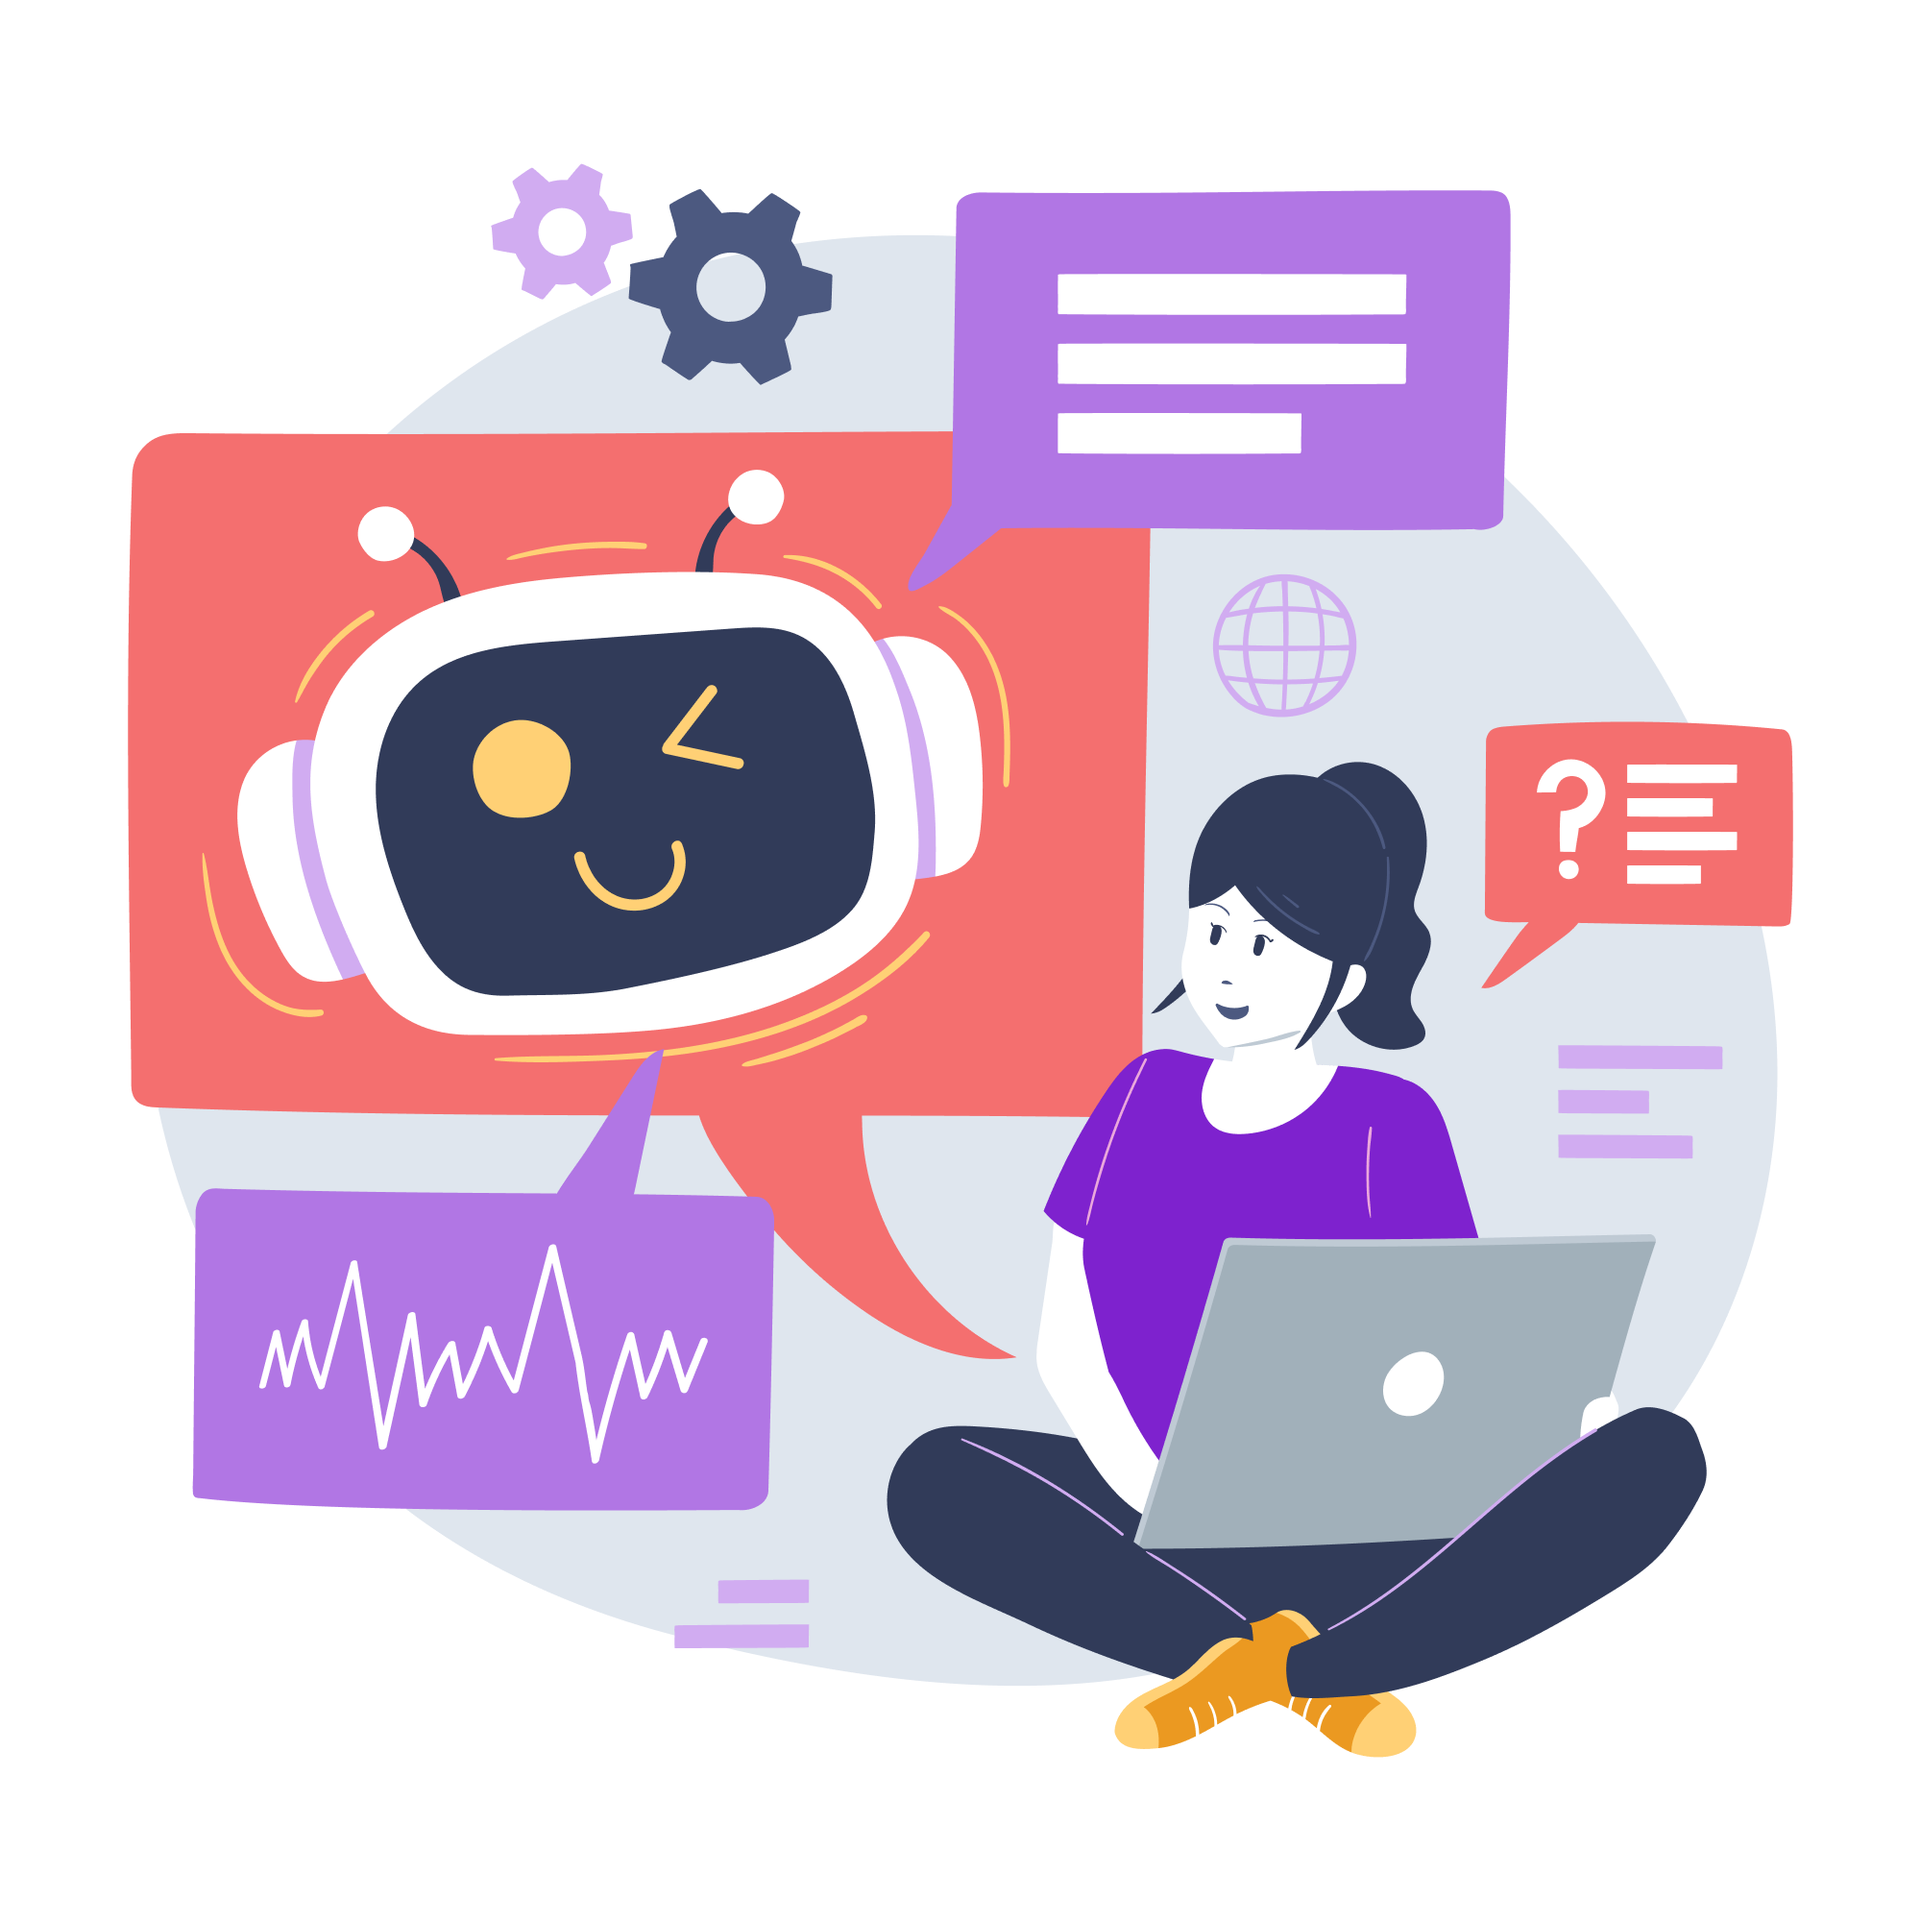
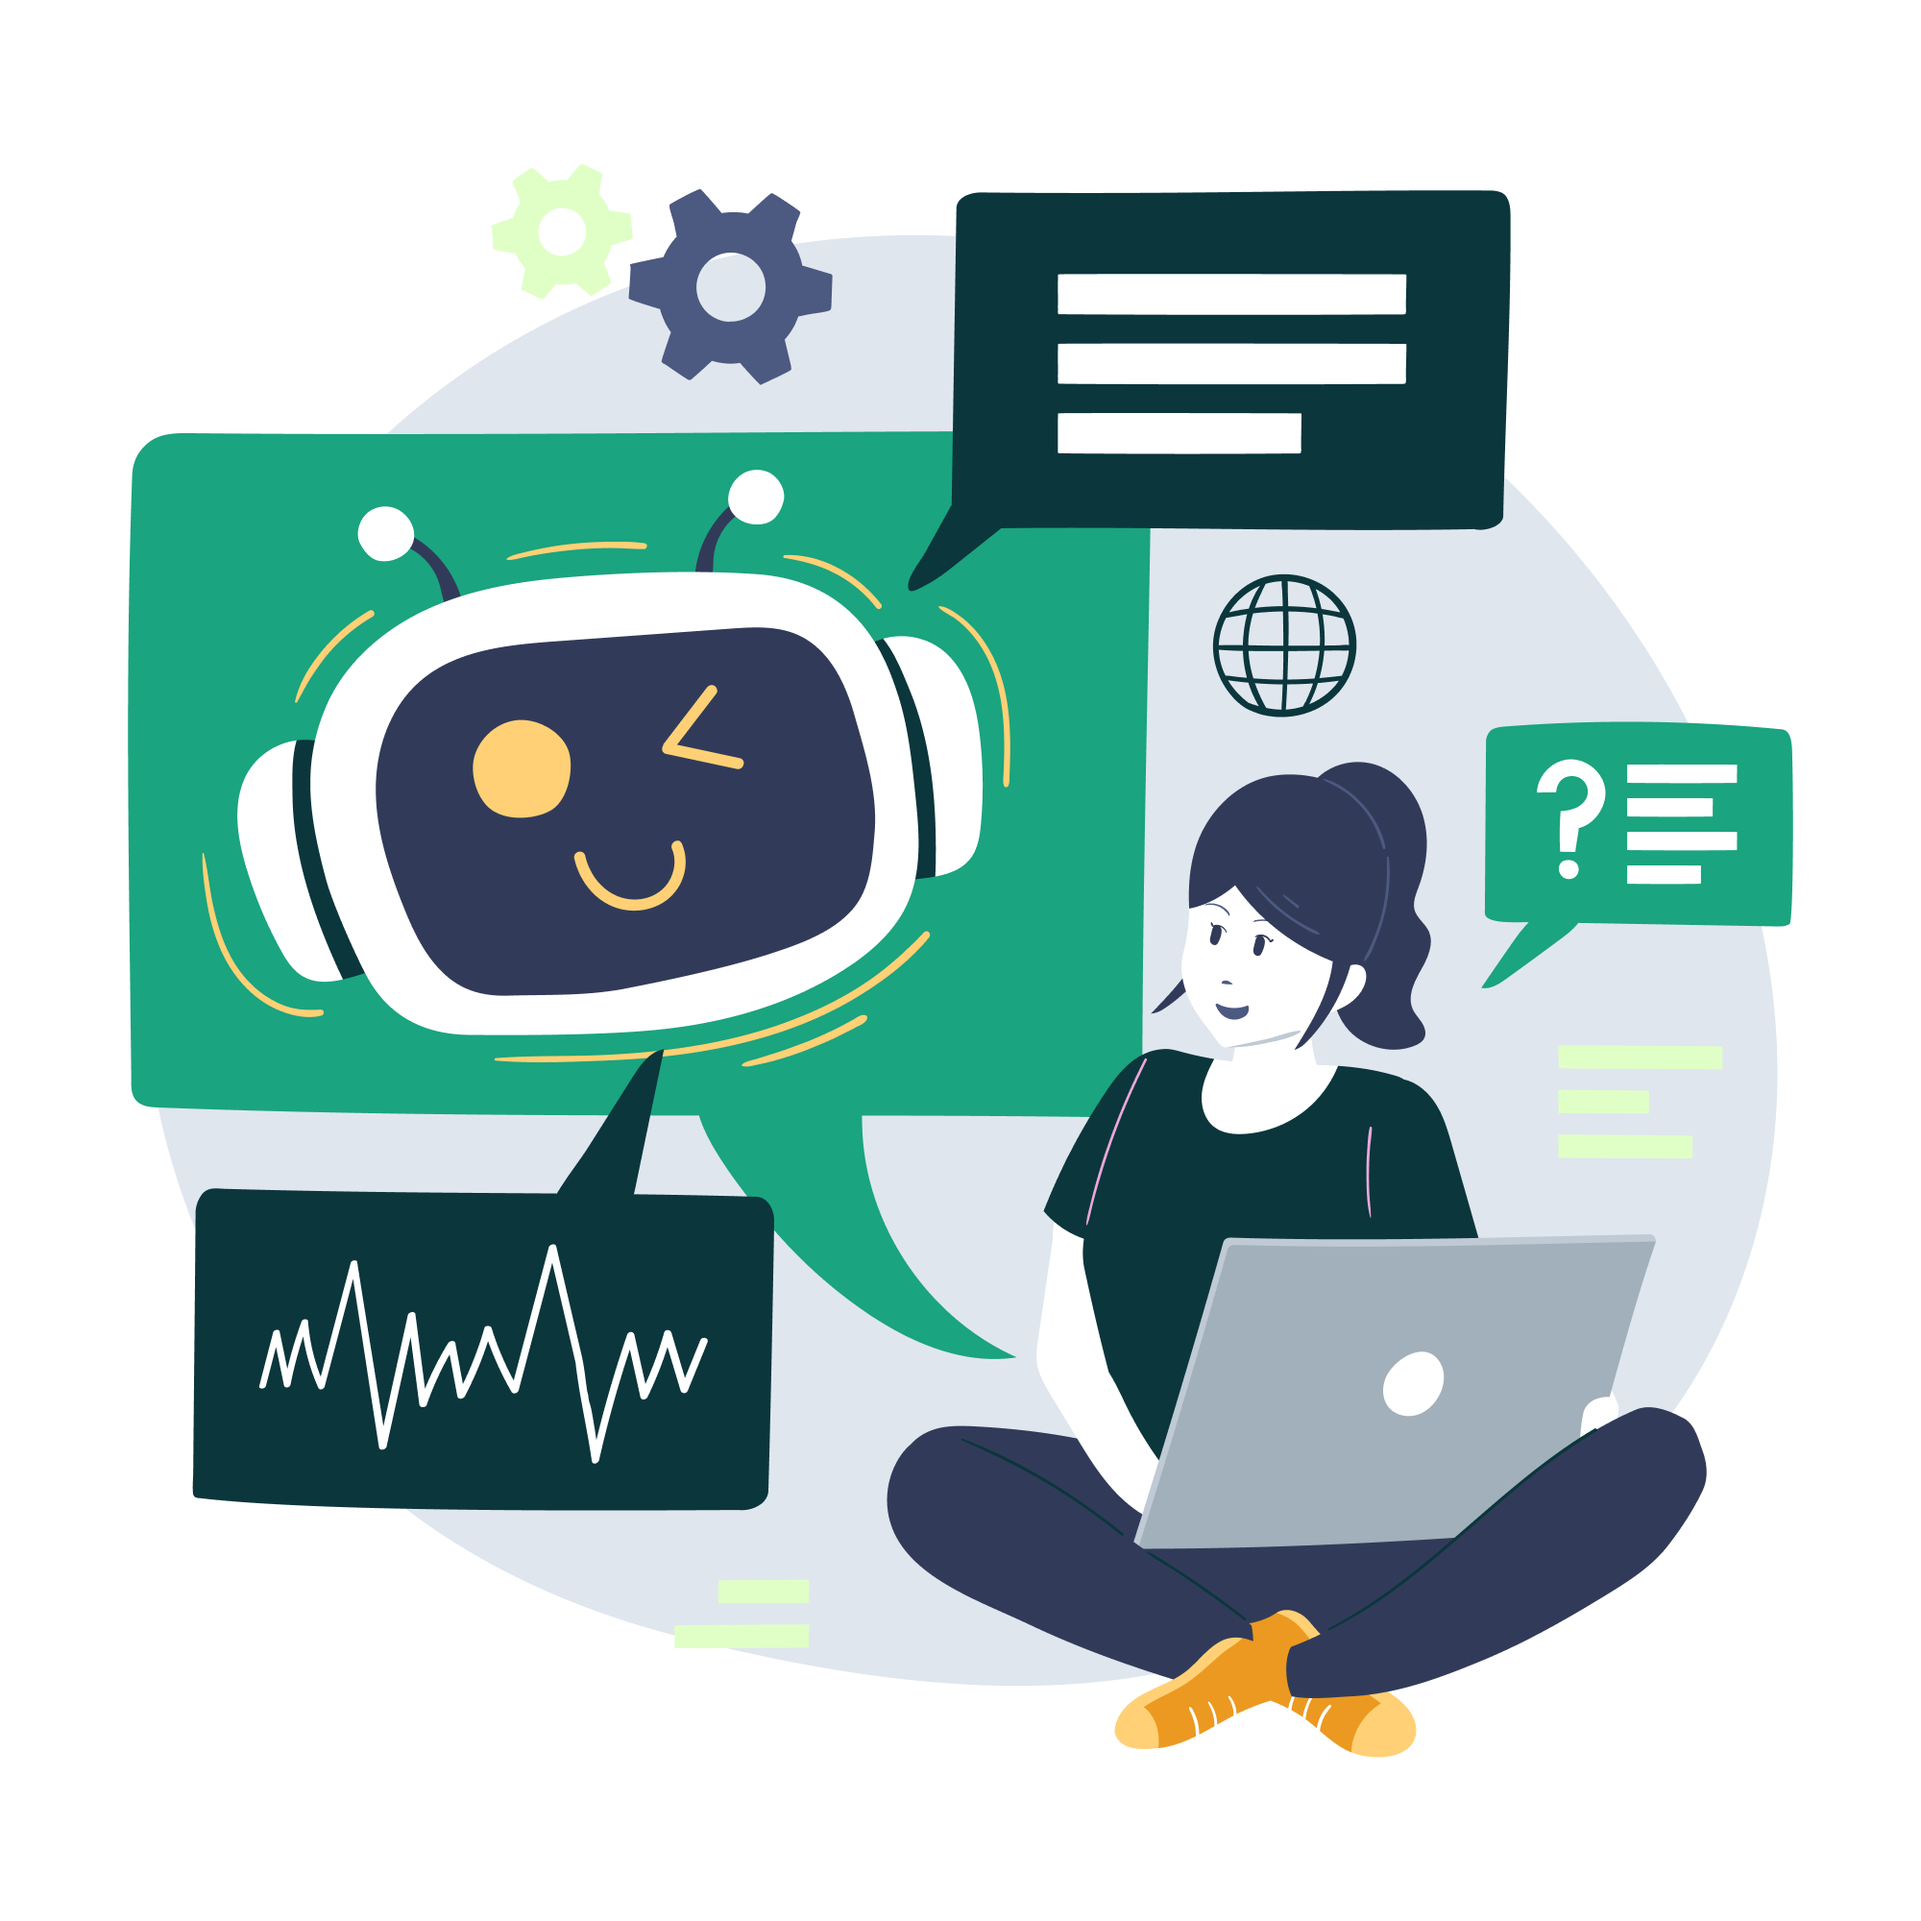
landing page redesign

diff --git a/packages/web/src/app/landing-page/features.tsx b/packages/web/src/app/landing-page/features.tsx
@@ -5,53 +5,29 @@ function Features() {
   return (
     <section id="features" className="mb-10">
       <SubSection
-        highlightTitle="Intelligent"
-        title="Keyword Monitoring"
-        subHeader="FEATURES"
-        imgPath="/first-feature.png"
-      >
-        <p className="text-font self-center md:self-start mt-2 md:text-lg lg:text-xl leading-normal font-normal text-start text-neutral-500">
-          Automatically monitor social media platforms for conversations relevant to your business
-        </p>
-        <ul className="marker:text-primary list-outside list-disc ml-6 mt-4">
-          <li className="text-font self-center md:self-start mt-2 md:text-lg lg:text-xl leading-normal font-normal text-start text-neutral-500">
-            <span className="text-slate-700 font-semibold">Multi-Platform Coverage: </span>Track
-            conversations across various social media channels like Reddit, Twitter, and more,
-            ensuring you never miss a relevant discussion.
-          </li>
-        </ul>
-        <br />
-        <ul className="marker:text-primary list-outside list-disc ml-6">
-          <li className="text-font self-center md:self-start mt-2 md:text-lg lg:text-xl leading-normal font-normal text-start text-neutral-500">
-            <span className="text-slate-700 font-semibold">Real-Time Alerts: </span>Get instant
-            notifications when specific keywords or phrases are mentioned, allowing you to engage at
-            the right moment.
-          </li>
-        </ul>
-      </SubSection>
-      <SubSection
-        highlightTitle="AI"
-        title="Relevant Responses & Targeting"
+        highlightTitle="Optimize"
+        title="Efficiency, Minimize Costs"
         isReversed
-        subHeader="FEATURES"
+        subHeader="KEY BENEFIT"
         imgPath="/second-feature.png"
       >
         <p className="text-font self-center md:self-start mt-2 md:text-lg lg:text-xl leading-normal font-normal text-start text-neutral-500">
-          Generate natural, on-point responses while reaching the right audience for maximum impact.
+          Streamline multi-warehouse management with centralized control, reducing costs and
+          improving operational efficiency.
         </p>
         <ul className="marker:text-primary list-outside list-disc ml-6 mt-4">
           <li className="text-font self-center md:self-start mt-2 md:text-lg lg:text-xl leading-normal font-normal text-start text-neutral-500">
-            <span className="text-slate-700 font-semibold">Tone & Style Matching: </span>Ensure that
-            your responses seamlessly blend into conversations by matching the tone, style, and
-            context of ongoing discussions.
+            <span className="text-slate-700 font-semibold">Seamless Operations Alignment: </span>
+            Ensure smooth multi-warehouse operations by standardizing workflows and reducing
+            inconsistencies across locations.
           </li>
         </ul>
         <br />
         <ul className="marker:text-primary list-outside list-disc ml-6">
           <li className="text-font self-center md:self-start mt-2 md:text-lg lg:text-xl leading-normal font-normal text-start text-neutral-500">
-            <span className="text-slate-700 font-semibold">Automated Audience Targeting: </span>
-            Engage the most relevant users by targeting based on location, demographics, and
-            interests, ensuring your content reaches those most likely to convert.
+            <span className="text-slate-700 font-semibold">Targeted Inventory Optimization: </span>
+            Manage stock efficiently by tracking location-specific demands, minimizing overstocking,
+            and avoiding costly stockouts.
           </li>
         </ul>
       </SubSection>

diff --git a/packages/web/src/components/ui/subsection.tsx b/packages/web/src/components/ui/subsection.tsx
@@ -27,7 +27,7 @@ function SubSection({
       <div className="md:container ml-0 mr-0 md:ml-auto md:mr-auto flex flex-col md:flex-row py-10 md:pt-20 md:pb-5 text-center md:text-start gap-8">
         <div className="flex flex-col md:w-2/3 px-4 self-center">
           {subHeader ? (
-            <p className="mb-4 text-base text-violet-700 self-start text-start bg-violet-100 px-5 py-2 rounded-xl flex flex-row items-center">
+            <p className="mb-4 text-base text-primary self-start text-start bg-violet-100 px-5 py-2 rounded-xl flex flex-row items-center">
               <span className="bg-violet-700 w-2 h-2 rounded-full mr-2" />
               {subHeader}
             </p>
@@ -36,7 +36,7 @@ function SubSection({
           )}
 
           <h2 className="text-slate-700 text-2xl font-bold md:text-5xl lg:text-4xl md:mb-4 self-start text-start">
-            {highlightTitle ? <span className="text-violet-700">{highlightTitle} </span> : <div />}
+            {highlightTitle ? <span className="text-primary-700">{highlightTitle} </span> : <div />}
             {title}
           </h2>
           {children}
@@ -69,15 +69,14 @@ function SubSection({
       </div>
       <div className="flex flex-col md:w-2/3 px-4 self-center">
         {subHeader ? (
-          <p className="mb-4 text-base text-violet-700 self-start text-start bg-violet-100 px-5 py-2 rounded-xl flex flex-row items-center">
-            <span className="bg-violet-700 w-2 h-2 rounded-full mr-2" />
+          <p className="mb-4 text-base text-primary self-start text-start bg-secondary px-5 py-2 rounded-xl flex flex-row items-center">
             {subHeader}
           </p>
         ) : (
           <div />
         )}
-        <h2 className="text-slate-700 text-2xl font-bold md:text-5xl lg:text-4xl md:mb-4 self-start text-start">
-          {highlightTitle ? <span className="text-violet-700">{highlightTitle} </span> : <div />}
+        <h2 className="text-header-color text-2xl font-bold md:text-5xl lg:text-4xl md:mb-4 self-start text-start">
+          {highlightTitle ? <span className="text-primary">{highlightTitle} </span> : <div />}
           {title}
         </h2>
         {children}

diff --git a/packages/web/src/app/landing-page/footer.tsx b/packages/web/src/app/landing-page/footer.tsx
@@ -1,26 +1,8 @@
-'use client';
-
-import Button from '@/components/ui/button';
-
 function Footer() {
   return (
-    <section id="footer" className="px-4 md:px-20 bg-violet-700 mt-10">
+    <section id="footer" className="px-4 md:px-20 bg-primary">
       <div className="flex flex-col">
-        <div className="flex bg-white md:flex-row flex-col justify-between w-full shadow-xl md:p-10 md:py-14 p-5 border border-violet-700 rounded-[3rem] items-center md:px-20 -mt-24">
-          <p className="text-2xl md:text-5xl text-slate-700 font-semibold md:mb-0 mb-3">
-            Be Part Of Early Testers
-          </p>
-          <div>
-            <Button
-              text="Sign Up!"
-              variant="xl"
-              onClick={() => {
-                window.location.href = '/auth';
-              }}
-            />
-          </div>
-        </div>
-        <div className="flex flex-row mt-20 justify-center text-center">
+        <div className="flex flex-row py-4 justify-center text-center">
           <p className="text-white text-sm md:text-xl">
             Copyright © 2024 DWMS. All Rights Reserved.
           </p>
